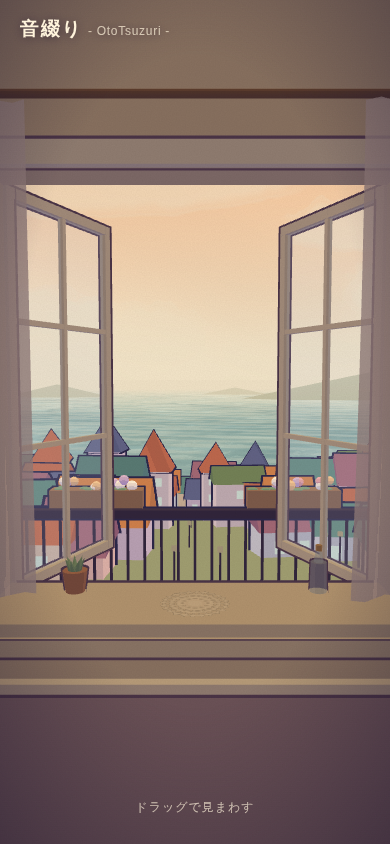
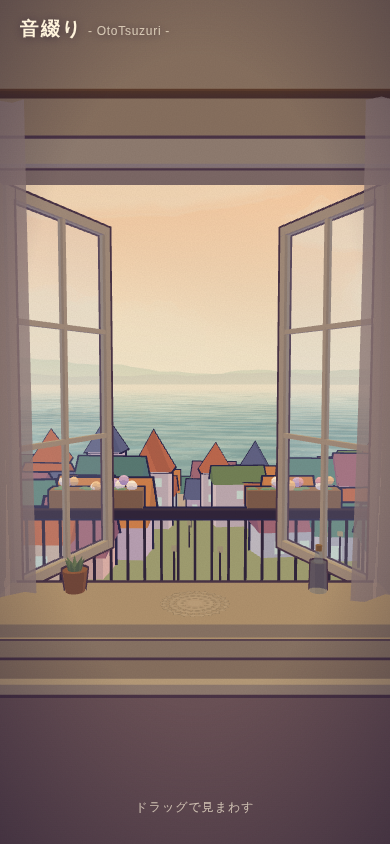
舞台の手直し：カメラの揺れをやめ、島影を廃止、遠山を水平線の向こうに薄く置く
Claude-Session: https://claude.ai/code/session_01RMptTWwkLGSHTsRQRfaBgW

diff --git a/src/orgel_dev.html b/src/orgel_dev.html
@@ -151,29 +151,29 @@ const KEYS = [
     skyTop:0x5a6aa8, skyBot:0xf1c9b4, glow:0xffb98a, fog:0xd9c9c9,
     seaDeep:0x4f6893, seaLight:0xa8b4c8, hills:[0x8f9ab8,0x74809f,0x5e6a8a], cloud:0xe8c9c6,
     hemiSky:0xc9c7de, hemiGround:0x6a6480, hemiI:1.2, sunColor:0xffd3b0, sunI:1.0,
-    stars:.25, inLight:0x6c6a80, ground:0x7a7693, island:0x777aa0, glass:0x9ca6c8 },
+    stars:.25, inLight:0x6c6a80, ground:0x7a7693, glass:0x9ca6c8 },
   { t:.18, name:'朝',
     skyTop:0x7fa8d8, skyBot:0xf3e4cf, glow:0xfff0cc, fog:0xe6e1d2,
     seaDeep:0x6f9fae, seaLight:0xbfd5cf, hills:[0xb7c6c4,0x9bb0b0,0x80999a], cloud:0xfffaf2,
     hemiSky:0xe8eef5, hemiGround:0xa8b0c8, hemiI:1.8, sunColor:0xfff1d6, sunI:2.2,
-    stars:0, inLight:0xaaa49c, ground:0x8f9a86, island:0x8e9fb0, glass:0xb9c9d8 },
+    stars:0, inLight:0xaaa49c, ground:0x8f9a86, glass:0xb9c9d8 },
   { t:.42, name:'昼',
     skyTop:0xf4c49a, skyBot:0xf2e5c9, glow:0xffd9a8, fog:0xf0e2c6,
     seaDeep:0x7fa3a0, seaLight:0xc2d3c2, hills:[0xc2cfb2,0xa7bca6,0x87a39a], cloud:0xfff6e8,
     hemiSky:0xfbe6cc, hemiGround:0xc6bff4, hemiI:1.7, sunColor:0xffe4c0, sunI:1.8,
-    stars:0, inLight:0xb8b2a8, ground:0x9aa88c, island:0x93a89c, glass:0xc6d3c9 },
+    stars:0, inLight:0xb8b2a8, ground:0x9aa88c, glass:0xc6d3c9 },
   { t:.66, name:'夕方',
     skyTop:0x6a6eae, skyBot:0xffd3a2, glow:0xffb070, fog:0xefbba1,
     seaDeep:0x4d6098, seaLight:0xc3919e, hills:[0xa08aa6,0x7f6d92,0x68587e], cloud:0xf4baae,
     hemiSky:0xf2c4b5, hemiGround:0x6b5b7b, hemiI:1.3, sunColor:0xffc79f, sunI:1.6,
-    stars:.1, inLight:0x8c8088, ground:0x8e80a1, island:0x8c7ba7, glass:0xcaa0a8 },
+    stars:.1, inLight:0x8c8088, ground:0x8e80a1, glass:0xcaa0a8 },
   { t:.85, name:'夜',
     skyTop:0x0e0c2e, skyBot:0x3a3870, glow:0x8d8fc0, fog:0x3f3b6a,
     seaDeep:0x111b44, seaLight:0x28356d, hills:[0x2f2f5e,0x262650,0x1e1e42], cloud:0x4a4878,
     hemiSky:0x5c62a8, hemiGround:0x221c3a, hemiI:.7, sunColor:0xb7c3ff, sunI:.5,
-    stars:1, inLight:0x3a3850, ground:0x3e3c68, island:0x30305c, glass:0x2e2d55 },
+    stars:1, inLight:0x3a3850, ground:0x3e3c68, glass:0x2e2d55 },
 ];
-const COLOR_KEYS = ['skyTop','skyBot','glow','fog','seaDeep','seaLight','cloud','hemiSky','hemiGround','sunColor','inLight','ground','island','glass'];
+const COLOR_KEYS = ['skyTop','skyBot','glow','fog','seaDeep','seaLight','cloud','hemiSky','hemiGround','sunColor','inLight','ground','glass'];
 const NUM_KEYS = ['hemiI','sunI','stars'];
 function makePal(src){
   const p = { hills:[] };
@@ -469,9 +469,9 @@ scene.add(moon);
    海の先は水平線にしたいので、正面は低く、左右の端ほど高くする。
 ================================================================ */
 const HILLS = [
-  { r:620, h:62, seed:1.3, bias:-.05 },
-  { r:560, h:46, seed:4.1, bias:-.15 },
-  { r:500, h:32, seed:7.7, bias:-.35 },
+  { r:900, h:60, seed:1.3, bias:-.05, fade:.8 },
+  { r:820, h:46, seed:4.1, bias:-.15, fade:.65 },
+  { r:740, h:32, seed:7.7, bias:-.30, fade:.5 },
 ];
 const hills = new THREE.Group();
 const hillMeshes = [];
@@ -480,16 +480,17 @@ for(const L of HILLS){
   for(let i=0;i<=N;i++){
     const a = i/N*Math.PI*2;
     let n = 0.55*Math.sin(a*3+L.seed) + 0.30*Math.sin(a*7+L.seed*2.3)
-          + 0.18*Math.sin(a*13+L.seed*5.1) + 0.07*Math.sin(a*29+L.seed*9.7);
+          + 0.18*Math.sin(a*13+L.seed*5.1) + 0.11*Math.sin(a*29+L.seed*9.7)
+          + 0.07*Math.sin(a*61+L.seed*3.3) + 0.04*Math.sin(a*131+L.seed*7.9);
     n = Math.max(0, n*0.5+0.5+L.bias);
-    // 視線（-z）からの方位。正面 ±22° は水平線のまま、60° で山の高さが出切る
+    // 視線（-z）からの方位。正面は低くなだらかに、横へ行くほど高く
     let da = a + Math.PI/2; da = Math.atan2(Math.sin(da), Math.cos(da));
-    const side = sstep(.38, 1.05, Math.abs(da));
-    const h = (L.h * Math.pow(n,1.4) + 3) * side;
+    const side = .6 + .4*sstep(.3, 1.1, Math.abs(da));
+    const h = (L.h * Math.pow(n,1.1) + 2) * side;
     const x = Math.cos(a)*L.r, z = Math.sin(a)*L.r;
     pos.push(x,h,z, x,-60,z);
     col.push(0,0,0, 0,0,0);
-    mask.push(side, 0);
+    mask.push(side*L.fade, 0);
     if(i<N){ const k=i*2; idx.push(k,k+1,k+2, k+1,k+3,k+2); }
   }
   const g = new THREE.BufferGeometry();
@@ -507,8 +508,8 @@ function paintHills(p){
   hillMeshes.forEach((H, li)=>{
     const top = p.hills[li], fog = p.fog, ca = H.m.geometry.attributes.color;
     for(let i=0;i<ca.count;i++){
-      // 下端は霧色、上端は山の色。正面の低い部分は上端も霧色へ寄せて線を消す
-      _hc.copy(fog).lerp(top, H.mask[i]*.9);
+      // 下端は霧色、上端も霧色に大きく寄せて、水平線の向こうにうっすら見える程度にする
+      _hc.copy(fog).lerp(top, H.mask[i]);
       ca.setXYZ(i, _hc.r, _hc.g, _hc.b);
     }
     ca.needsUpdate = true;
@@ -683,14 +684,6 @@ gGeo.translate(0, 0, -52);
 }
 scene.add(new THREE.Mesh(gGeo, groundMat));
 
-/* 島影 */
-const islandMat = tintToon('island');
-[[-120,-230,40,9],[-60,-260,26,6],[70,-240,55,11],[150,-280,34,7],[20,-300,20,4]].forEach(([x,z,r,h])=>{
-  const m = new THREE.Mesh(new THREE.ConeGeometry(r, h, 9), islandMat);
-  m.position.set(x, SEA_Y + h/2 - .6, z);
-  m.scale.z = .45;
-  scene.add(m);
-});
 
 /* ---------- 町並み ---------- */
 const WALLS = [0xf1e6d4,0xf2d4d0,0xd3e0ef,0xd6e8dc,0xe2d6ef,0xf3e5c4,0xe9e2ea];
@@ -1191,13 +1184,12 @@ renderer.setAnimationLoop(now=>{
 
   yaw += (tYaw - yaw)*Math.min(1, dt*5);
   pitch += (tPitch - pitch)*Math.min(1, dt*5);
-  const sway = Math.sin(clock*.23)*.018*MOTION;
   const dist = baseDist * zoom;
   // 見回し：体を横へ寄せて窓の中心を見る。回転は少しだけ足す（回し過ぎると壁しか見えない）
-  camera.position.set(yaw*1.2, EYE_Y + Math.sin(clock*.31)*.01*MOTION, dist);
+  camera.position.set(yaw*1.2, EYE_Y, dist);
   LOOK.set(0, 2.05, 0);
   camera.lookAt(LOOK);
-  camera.rotateY(yaw*.25 + sway);
+  camera.rotateY(yaw*.25);
   camera.rotateX(pitch);
 
   sky.position.copy(camera.position);

diff --git a/orgel_handoff.md b/orgel_handoff.md
@@ -67,8 +67,8 @@
 2. 太陽にクレーターがある → §3 の太陽と月の分離で解決した。
 3. 手すりの隙間に、光源の形がないピンクの滲んだ丸（手前の街灯の光）が見える → 全部の街灯に柱と灯具を付け、光の滲みは小さくした。
 
-遠山（確定）：海の先は水平線のままにし、正面 ±22° は山を置かない。左右の端ほど高くして羽結びの見た目に寄せる。島影は残す。
-見回し（確定）：ドラッグで見回す・ピンチで寄る操作は残す。横を見るときは体を横へ寄せて窓の中心を見る動き（回転は少しだけ）。「置き場所」のガイド表示はデバッグ表示へ移した。
+遠山（確定）：水平線の向こうに**うっすら**。近くには置かない（半径 740〜900、霧の向こう）。正面は低くなだらか、左右の端ほど高い。輪郭は細かいノイズで崩す（きれいな三角にしない）。近景の島影（円錐）は目に引っかかるので**廃止**。
+見回し（確定）：ドラッグで見回す・ピンチで寄る操作は残す。横を見るときは体を横へ寄せて窓の中心を見る動き（回転は少しだけ）。**カメラの常時の揺れ（上下・回転）は入れない**（酔う）。「置き場所」のガイド表示はデバッグ表示へ移した。
 タイトル表示：「音綴り - OtoTsuzuri -」。
 
 ## 5. オルゴール
@@ -126,7 +126,7 @@
 
 ## 8. 進め方
 段階ごとに止まって、iPhone 縦画面相当のスクリーンショットをユーザーに見せ、判定を受けてから次へ進む。
-1. 舞台：羽結びの描き方で空・遠山・海・雲を作り直し、太陽と月を分離、一日の移り変わりを実装、§4 の修正。夜明け・朝・昼・夕方・夜の5枚を見せる。（実装済み。ユーザーの判定待ち）
+1. 舞台：羽結びの描き方で空・遠山・海・雲を作り直し、太陽と月を分離、一日の移り変わりを実装、§4 の修正。夜明け・朝・昼・夕方・夜の5枚を見せる。（完了。ユーザー判定済み）
 2. 機構：§5 の修正を入れ、窓台に載せる。
 3. 統合：v10 の音源と曲データを接続し、シリンダー・櫛歯の自動生成とゼンマイ切れを実装。鍵盤を外す。
 4. 鳥：両方のモデルを置いて比較 → ユーザーが選んだ方で振る舞い・首・歌・音符・触れて鳴らす遊びを実装。
